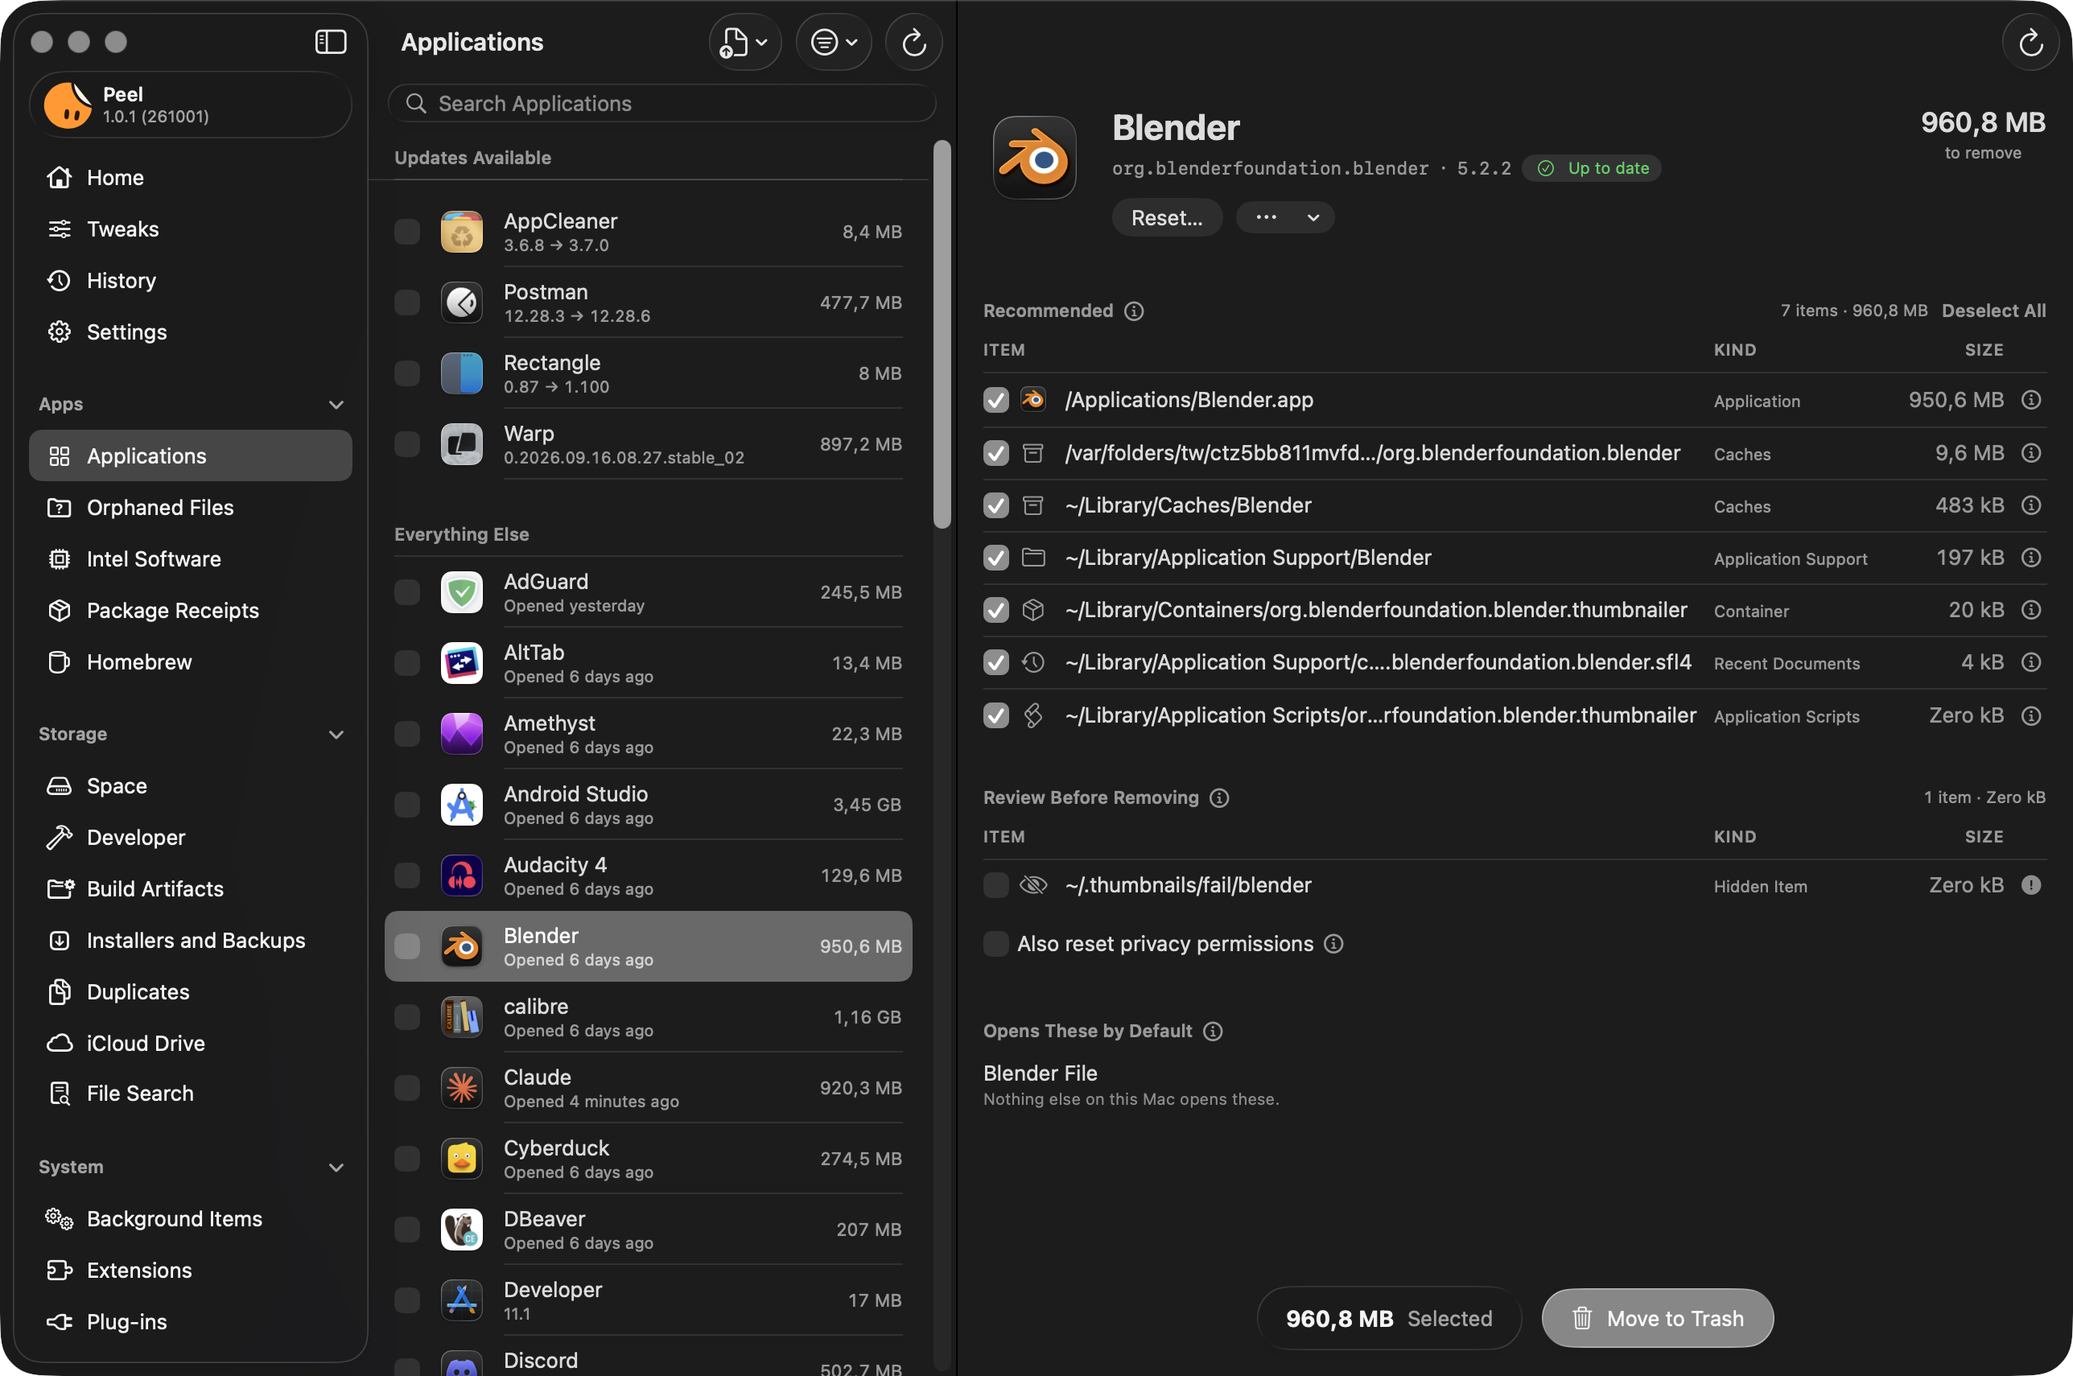
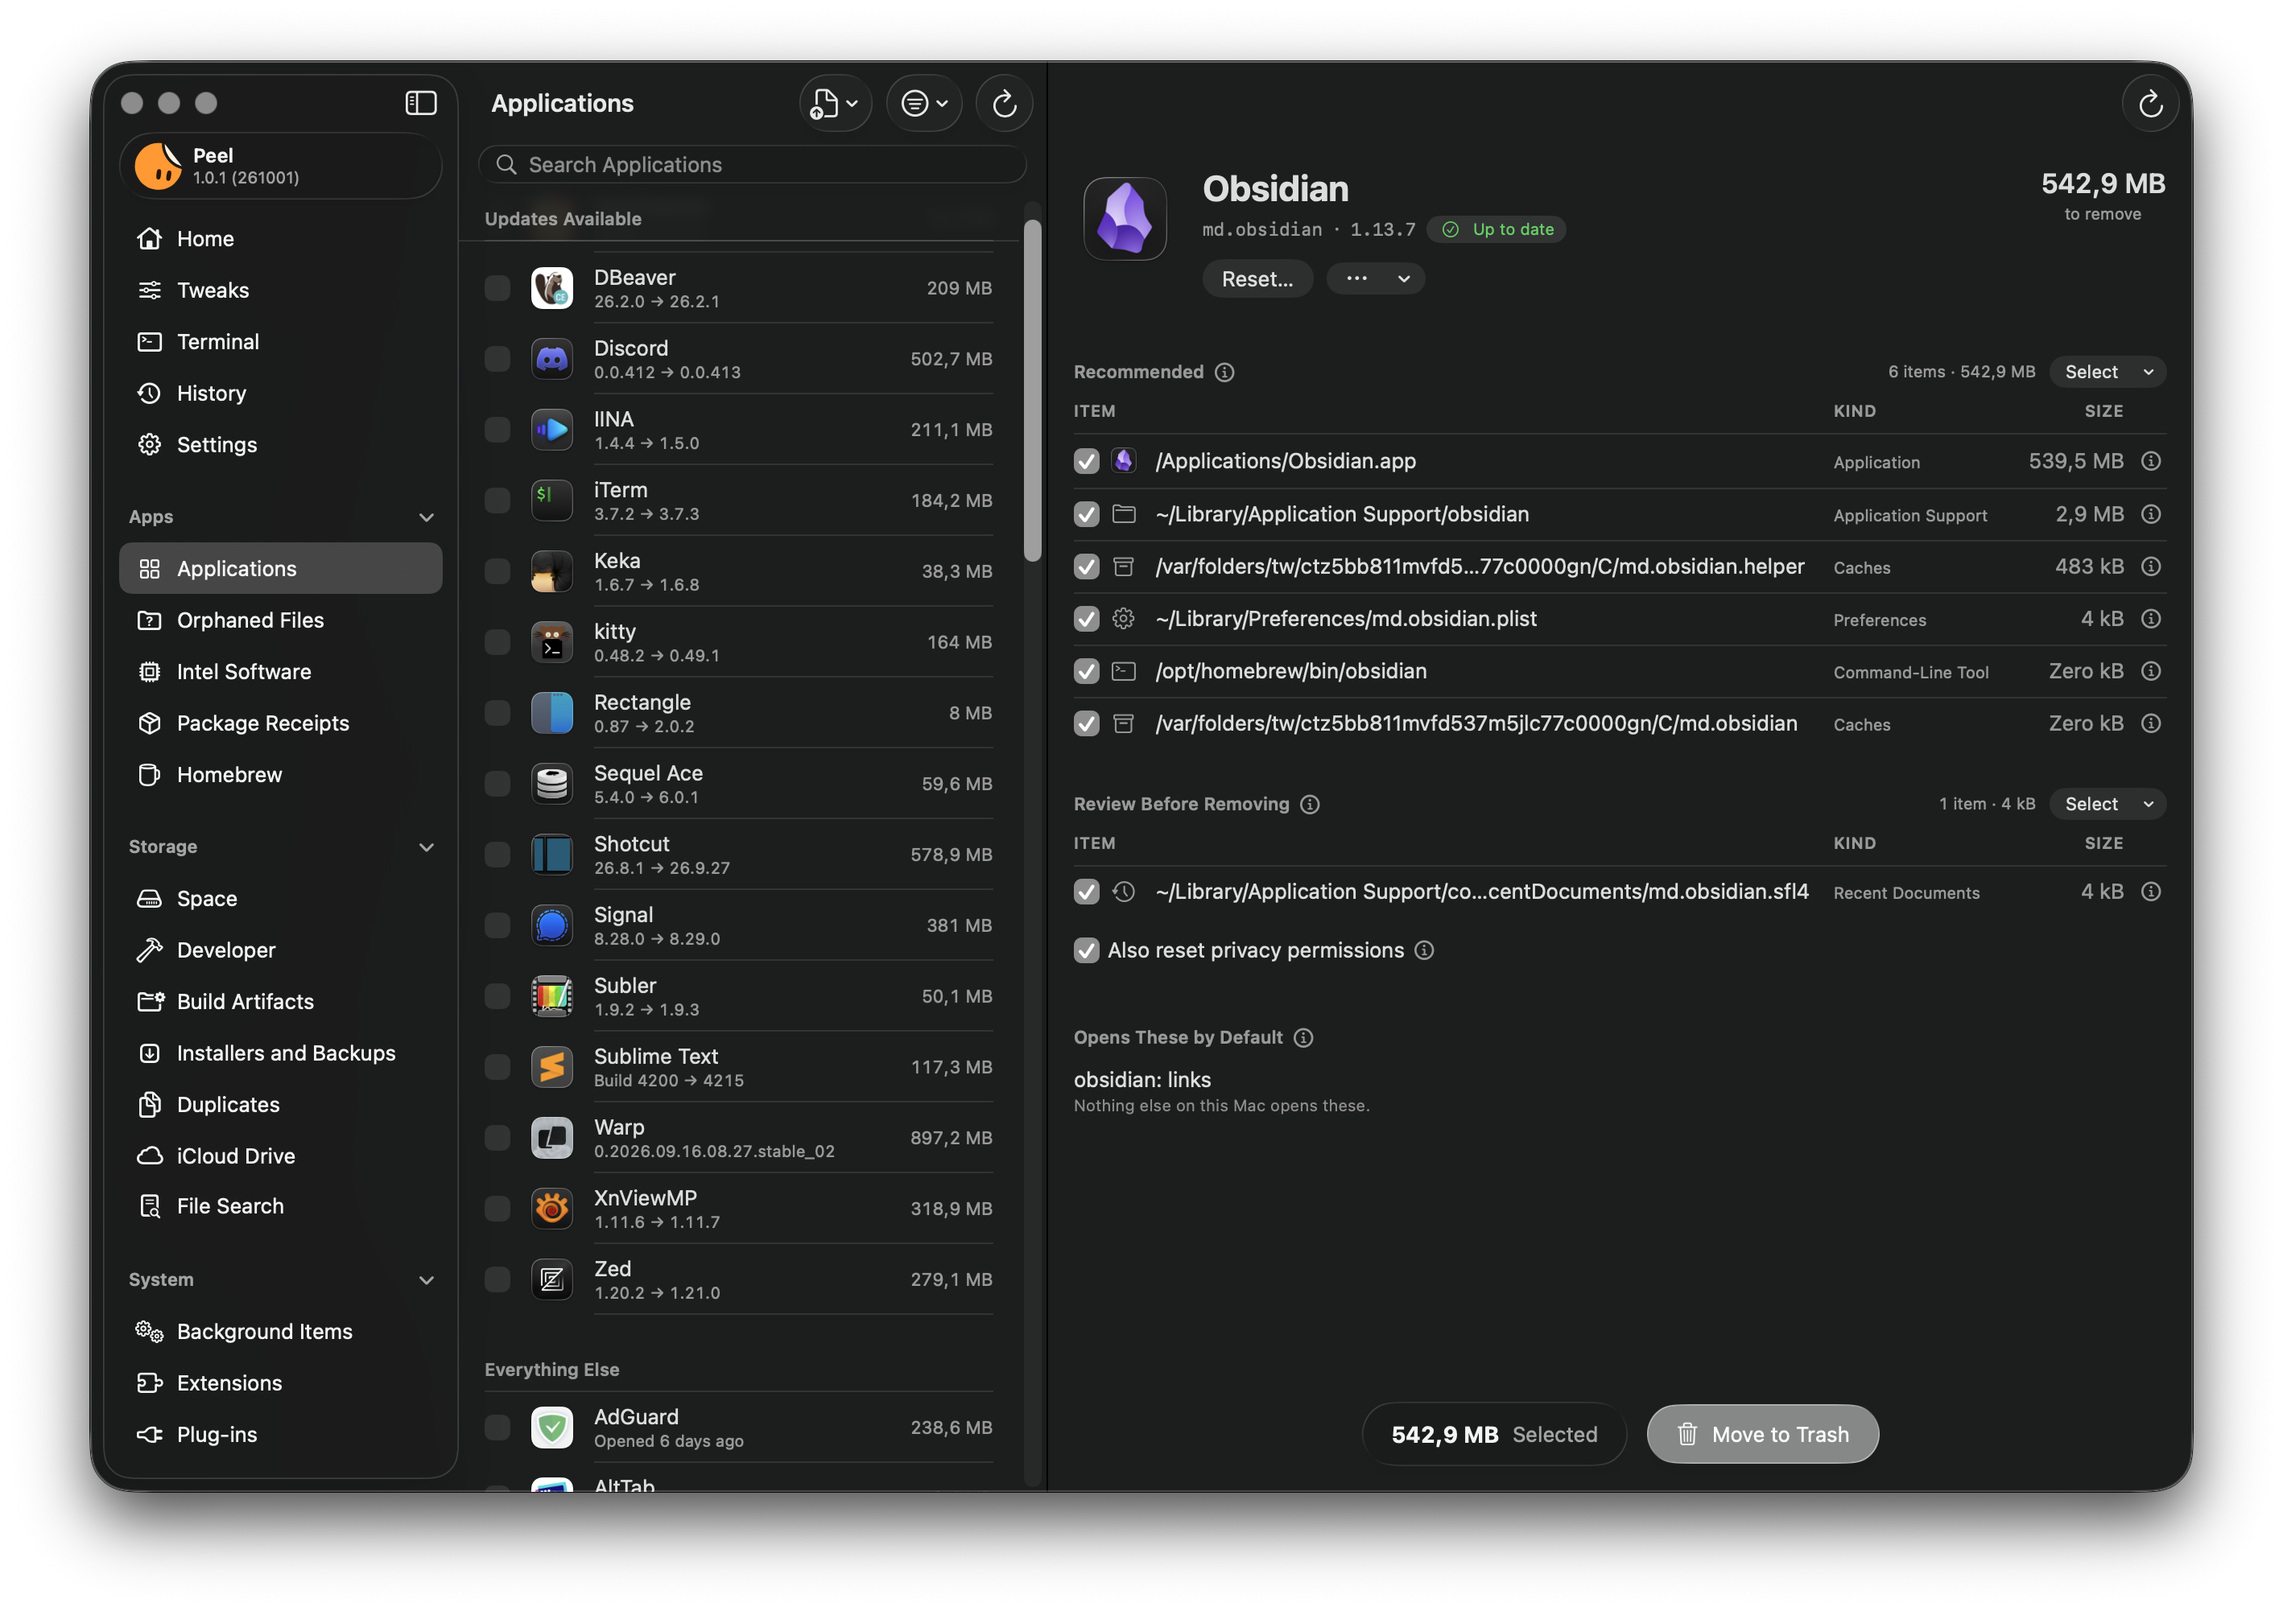
Show Obsidian's uninstall in the README, and what its page also says
The uninstall picture is taken again, on Obsidian, with the whole sidebar. The section now says what the picture shows and the text left out: the Select menu of a list, and the kinds of files and links an app opens by default, with what would open them once it is gone.

Changed region(s): [[0.0, 0.0, 1.0, 1.0], [0.4658, 0.7439, 0.5901, 0.8058], [0.8385, 0.6199, 0.8696, 0.6509]]

diff --git a/README.md b/README.md
@@ -77,7 +77,7 @@ Peel is free and open source, and it speaks English and 17 other languages.
 ### Uninstall apps completely
 
 <p align="center">
-  <img src="readme-assets/peel-uninstall-app-with-leftover-files.png" width="900" alt="Peel uninstalling Blender: the app and its leftover files in caches, Application Support, and containers, each with its kind and size, selected and ready to move to the Trash">
+  <img src="readme-assets/peel-uninstall-app-with-leftover-files.png" width="900" alt="Peel uninstalling Obsidian: the app, what it left in Application Support, caches, and preferences, and the command Homebrew linked to it, each with its kind and size, selected and ready to move to the Trash, with its list of recent documents under Review Before Removing, its privacy permissions to reset, and the links it opens by default">
 </p>
 
 - **Every leftover, with a reason.** Peel searches the places apps keep files: Application Support, caches,
@@ -87,7 +87,8 @@ Peel is free and open source, and it speaks English and 17 other languages.
 - **Only the sure things are selected.** Files that certainly belong to the app are selected for you, unless
   Peel sees something inside that may exist nowhere else, such as a crypto wallet, a signing key, or a
   repository. A file another installed app also uses is shown but never selected, and anything Peel is less sure
-  of waits under Review Before Removing.
+  of waits under Review Before Removing. A list's Select menu picks what Peel recommends, everything, or nothing,
+  and asks before it selects what Peel doesn't recommend.
 - **Several ways in.** Choose an app in the list, drop one on Peel's Dock icon, select several apps at once, or
   Control-click an app in Finder and choose Uninstall with Peel. With Watch the Trash on, Peel notices when you
   drag an app to the Trash yourself and offers to clear what it left behind. Apps you keep outside the Applications
@@ -98,6 +99,8 @@ Peel is free and open source, and it speaks English and 17 other languages.
   to the camera and the microphone.
 - **Its Dock icon too, if you want.** Peel can take the app's icon out of the Dock, where it would stay as a
   question mark, and History puts it back where it was when you put the app back.
+- **What it opens.** An app's page lists the kinds of files and links it opens by default, and what would open
+  them once it's gone. Peel never changes that itself.
 - **Updates for your apps.** Peel checks your apps for new versions, through the update feed each app names or the
   App Store for apps bought there, and shows what is new in the version that waits, as the app's own notes say it,
   with no connection too. Skip This Version and Never Check This App keep it quiet about the ones you want left
